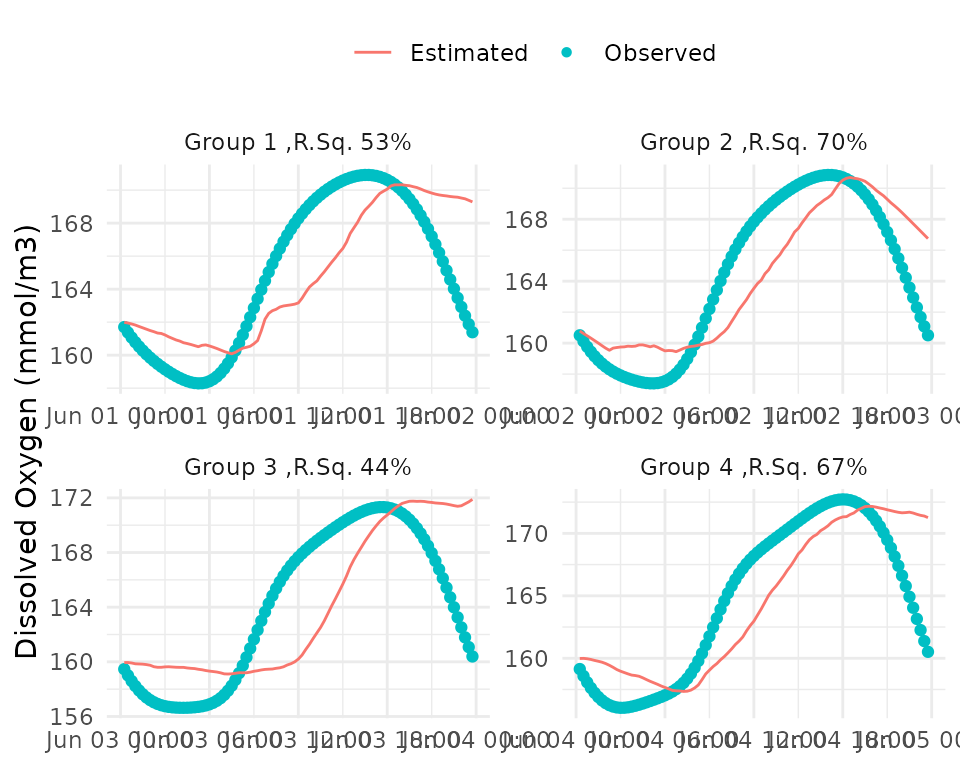
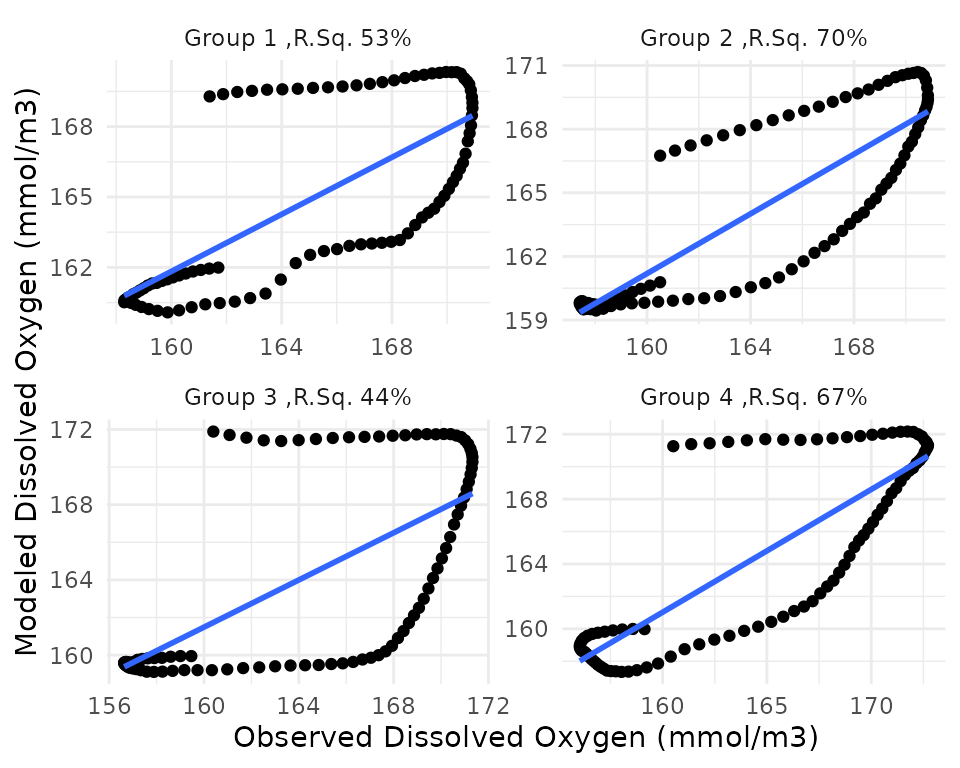
Built site for EBASE: 0.0.0.9003@4bd171c

diff --git a/articles/ebase-overview.html b/articles/ebase-overview.html
@@ -146,7 +146,7 @@
 <span class="co">#&gt; 6 0.5311373 0.007641504 0.2249083      0 13.6254 5.302609</span>
 <span class="co">#&gt; 7 0.5311373 0.007641504 0.2249083      0 13.6254 5.817955</span></code></pre></div>
 <p>The results are returned as a data frame with instantaneous metabolic estimates for volumetric gross production (O2 mmol/m3/d, <code>Pg_vol</code> or <span class="math inline">\(aPAR\)</span> from above), respiration (O2 mmol/m3/d, <code>Rt_vol</code> or <span class="math inline">\(r\)</span> from above), and gas exchange (O2 mmol/m3/d, <code>D</code> or the remainder of the equation from above). Additional parameters estimated by the model that are returned include <code>a</code> and <code>b</code> as shown in the above equation. The <code>a</code> parameter is a constant that represents the primary production per quantum of light with units of (mmol/m3/d)(W/m2) and is used to estimate gross production <span class="citation">(Grace et al. 2015)</span>. The <code>b</code> parameter is a constant used to estimate gas exchange in (cm/hr)/(m2/s2) (provided as 0.251 in eqn. 4 in <span class="citation">Wanninkhof (2014)</span>).</p>
-<p>Model fit can be assessed using the <code>converge</code> and <code>rsq</code> columns. The values in these columns apply to each group in the <code>grp</code> column as specified with the <code>ndays</code> argument. The <code>converge</code> column indicates <code>"Check convergence"</code> or <code>"Fine"</code> if the JAGS estimate converged at that iteration (repeated across rows for the group). The <code>n.chains</code> argument can be increased if convergence is not achieved. Similarly, the <code>rsq</code> column shows the r-squared values of the linear fit between the modeled and observed dissolved oxygen (repeated across rows for the group). These values can also be viewed with <code><a href="../reference/fit_plot.html">fit_plot()</a></code>, shown below. A plot of the results can be made with <code><a href="../reference/ebase_plot.html">ebase_plot()</a></code>.</p>
+<p>A plot of the results can be made with <code><a href="../reference/ebase_plot.html">ebase_plot()</a></code>.</p>
 <div class="sourceCode" id="cb6"><pre class="downlit sourceCode r">
 <code class="sourceCode R"><span class="fu"><a href="../reference/ebase_plot.html">ebase_plot</a></span><span class="op">(</span><span class="va">res</span><span class="op">)</span></code></pre></div>
 <p><img src="ebase-overview_files/figure-html/unnamed-chunk-5-1.png" width="864" style="display: block; margin: auto;"></p>
@@ -164,17 +164,18 @@
 <span class="va">res</span> <span class="op">&lt;-</span> <span class="fu"><a href="../reference/ebase.html">ebase</a></span><span class="op">(</span><span class="va">dat</span>, interval <span class="op">=</span> <span class="fl">900</span>, H <span class="op">=</span> <span class="fl">1.85</span>, progress <span class="op">=</span> <span class="cn">TRUE</span>, n.chains <span class="op">=</span> <span class="fl">2</span><span class="op">)</span>
 
 <span class="fu"><a href="https://rdrr.io/r/parallel/makeCluster.html" class="external-link">stopCluster</a></span><span class="op">(</span><span class="va">cl</span><span class="op">)</span></code></pre></div>
-<p>The model fit can be assessed by comparing the observed and modeled values for dissolved oxygen with the <code><a href="../reference/fit_plot.html">fit_plot()</a></code> function. Estimated values are shown as line and observed values are shown as points.</p>
+<p>Model fit can be assessed using the <code>converge</code> and <code>rsq</code> columns from the returned results. The values in these columns apply to each group in the <code>grp</code> column as specified with the <code>ndays</code> argument. The <code>converge</code> column indicates <code>"Check convergence"</code> or <code>"Fine"</code> if the JAGS estimate converged at that iteration (repeated across rows for the group). The <code>n.chains</code> argument can be increased if convergence is not achieved. Similarly, the <code>rsq</code> column shows the r-squared values of the linear fit between the modeled and observed dissolved oxygen (repeated across rows for the group).</p>
+<p>The model fit can also be assessed by comparing the observed and modeled values for dissolved oxygen with the <code><a href="../reference/fit_plot.html">fit_plot()</a></code> function. Estimated values are shown as line and observed values are shown as points.</p>
 <div class="sourceCode" id="cb9"><pre class="downlit sourceCode r">
 <code class="sourceCode R"><span class="fu"><a href="../reference/fit_plot.html">fit_plot</a></span><span class="op">(</span><span class="va">res</span><span class="op">)</span></code></pre></div>
 <p><img src="ebase-overview_files/figure-html/unnamed-chunk-8-1.png" width="864" style="display: block; margin: auto;"></p>
-<p>A scatterplot showing modeled versus observed dissolved oxygen can also be returned by setting <code>scatter = TRUE</code>.</p>
-<div class="sourceCode" id="cb10"><pre class="downlit sourceCode r">
-<code class="sourceCode R"><span class="fu"><a href="../reference/fit_plot.html">fit_plot</a></span><span class="op">(</span><span class="va">res</span>, scatter <span class="op">=</span> <span class="cn">TRUE</span><span class="op">)</span></code></pre></div>
-<p><img src="ebase-overview_files/figure-html/unnamed-chunk-9-1.png" width="384" style="display: block; margin: auto;"></p>
 <p>The comparison can also be separated by group with <code>bygroup = TRUE</code> based on the value for the <code>ndays</code> argument passed to <code><a href="../reference/ebase.html">ebase()</a></code>. The r-squared value of the fit between modeled and observed dissolved oxygen is also shown in the facet label for the group.</p>
-<div class="sourceCode" id="cb11"><pre class="downlit sourceCode r">
+<div class="sourceCode" id="cb10"><pre class="downlit sourceCode r">
 <code class="sourceCode R"><span class="fu"><a href="../reference/fit_plot.html">fit_plot</a></span><span class="op">(</span><span class="va">res</span>, bygroup <span class="op">=</span> <span class="cn">TRUE</span><span class="op">)</span></code></pre></div>
+<p><img src="ebase-overview_files/figure-html/unnamed-chunk-9-1.png" width="480" style="display: block; margin: auto;"></p>
+<p>A scatterplot showing modeled versus observed dissolved oxygen can also be returned by setting <code>scatter = TRUE</code>.</p>
+<div class="sourceCode" id="cb11"><pre class="downlit sourceCode r">
+<code class="sourceCode R"><span class="fu"><a href="../reference/fit_plot.html">fit_plot</a></span><span class="op">(</span><span class="va">res</span>, bygroup <span class="op">=</span> <span class="cn">TRUE</span>, scatter <span class="op">=</span> <span class="cn">TRUE</span><span class="op">)</span></code></pre></div>
 <p><img src="ebase-overview_files/figure-html/unnamed-chunk-10-1.png" width="480" style="display: block; margin: auto;"></p>
 </div>
 <div class="section level3">
@@ -196,13 +197,17 @@
 <div class="sourceCode" id="cb13"><pre class="downlit sourceCode r">
 <code class="sourceCode R"><span class="fu"><a href="../reference/ebase_plot.html">ebase_plot</a></span><span class="op">(</span><span class="va">res</span>, instantaneous <span class="op">=</span> <span class="cn">TRUE</span><span class="op">)</span></code></pre></div>
 <p><img src="ebase-overview_files/figure-html/unnamed-chunk-12-1.png" width="864" style="display: block; margin: auto;"></p>
+<p>And the fit of observed and modeled dissolved oxygen (note the unbroken line for all days estimated together):</p>
+<div class="sourceCode" id="cb14"><pre class="downlit sourceCode r">
+<code class="sourceCode R"><span class="fu"><a href="../reference/fit_plot.html">fit_plot</a></span><span class="op">(</span><span class="va">res</span><span class="op">)</span></code></pre></div>
+<p><img src="ebase-overview_files/figure-html/unnamed-chunk-13-1.png" width="864" style="display: block; margin: auto;"></p>
 </div>
 <div class="section level4">
 <h4 id="missing-values">Missing values<a class="anchor" aria-label="anchor" href="#missing-values"></a>
 </h4>
 <p>Missing values in the input data can also be interpolated prior to estimating metabolism. This is the default behavior and it is the responsibility of the user to verify that these interpolated values are not wildly inaccurate. Missing values are linearly interpolated between non-missing values at the time step specified by the value in <code>interval</code>. This works well for small gaps, but can easily create inaccurate values at gaps larger than a few hours.</p>
 <p>As an example, the <code>dat</code> object above is subset to 90% of its observations.</p>
-<div class="sourceCode" id="cb14"><pre class="downlit sourceCode r">
+<div class="sourceCode" id="cb15"><pre class="downlit sourceCode r">
 <code class="sourceCode R"><span class="fu"><a href="https://rdrr.io/r/base/Random.html" class="external-link">set.seed</a></span><span class="op">(</span><span class="fl">222</span><span class="op">)</span>
 <span class="va">dat2</span> <span class="op">&lt;-</span> <span class="va">dat</span> <span class="op"><a href="https://magrittr.tidyverse.org/reference/pipe.html" class="external-link">%&gt;%</a></span> 
   <span class="fu"><a href="https://dplyr.tidyverse.org/reference/slice.html" class="external-link">slice_sample</a></span><span class="op">(</span>prop <span class="op">=</span> <span class="fl">0.9</span><span class="op">)</span> <span class="op"><a href="https://magrittr.tidyverse.org/reference/pipe.html" class="external-link">%&gt;%</a></span> 
@@ -216,7 +221,7 @@
 <span class="co">#&gt; 5 2012-06-01 01:45:00 5.121741 29.6 24.6   0  1.8</span>
 <span class="co">#&gt; 6 2012-06-01 02:00:00 5.115085 29.6 24.8   0  2.0</span></code></pre></div>
 <p>The <code><a href="../reference/ebase_prep.html">ebase_prep()</a></code> function is used internally to <code>ebase</code> to prepare the data for the metabolism calculations. This function interpolates the missing data and returns a column <code>isinterp</code> that specifies <code>TRUE</code> or <code>FALSE</code> if a value is interpolated.</p>
-<div class="sourceCode" id="cb15"><pre class="downlit sourceCode r">
+<div class="sourceCode" id="cb16"><pre class="downlit sourceCode r">
 <code class="sourceCode R"><span class="va">dat2interp</span> <span class="op">&lt;-</span> <span class="fu"><a href="../reference/ebase_prep.html">ebase_prep</a></span><span class="op">(</span><span class="va">dat2</span>, H <span class="op">=</span> <span class="fl">1.85</span>, interval <span class="op">=</span> <span class="fl">900</span>, interp <span class="op">=</span> <span class="cn">T</span><span class="op">)</span>
 <span class="fu"><a href="https://rdrr.io/r/utils/head.html" class="external-link">head</a></span><span class="op">(</span><span class="va">dat2interp</span><span class="op">)</span>
 <span class="co">#&gt;         Date       DateTimeStamp isinterp   DO_obs   DO_sat    H  Temp   Sal</span>
@@ -234,16 +239,16 @@
 <span class="co">#&gt; 5   0 1.70 345.0879   1</span>
 <span class="co">#&gt; 6   0 1.75 345.2247   1</span></code></pre></div>
 <p>The interpolated values can be visually inspected using the <code><a href="../reference/interp_plot.html">interp_plot()</a></code> function.</p>
-<div class="sourceCode" id="cb16"><pre class="downlit sourceCode r">
+<div class="sourceCode" id="cb17"><pre class="downlit sourceCode r">
 <code class="sourceCode R"><span class="fu"><a href="../reference/interp_plot.html">interp_plot</a></span><span class="op">(</span><span class="va">dat2</span>, H <span class="op">=</span> <span class="fl">1.85</span>, interval <span class="op">=</span> <span class="fl">900</span>, param <span class="op">=</span> <span class="st">'DO_sat'</span><span class="op">)</span></code></pre></div>
-<p><img src="ebase-overview_files/figure-html/unnamed-chunk-15-1.png" width="864" style="display: block; margin: auto;"></p>
+<p><img src="ebase-overview_files/figure-html/unnamed-chunk-16-1.png" width="864" style="display: block; margin: auto;"></p>
 </div>
 <div class="section level4">
 <h4 id="changing-priors">Changing priors<a class="anchor" aria-label="anchor" href="#changing-priors"></a>
 </h4>
 <p>The prior distributions for the <span class="math inline">\(a\)</span>, <span class="math inline">\(r\)</span>, and <span class="math inline">\(b\)</span> parameters are defined in the <code><a href="../reference/ebase_model.html">ebase_model()</a></code> as uninformed uniform, normal, and uniform distributions, respectively. The prior distribution for <span class="math inline">\(a\)</span> as default varies uniformly across the range from zero to 200% of an estimated mean of 0.2 (mmol/m3/d)(W/m2). This range can be changed using the <code>arng</code> parameter, default being 0 to 2 for zero to 200%. The prior distribution for the <span class="math inline">\(r\)</span> parameter follows a normal distribution with mean zero and variance equal to 100. This variance estimate can be changed with the <code>rvar</code> parameter. The prior distribution for <span class="math inline">\(b\)</span> as default varies uniformly across the range from 80 to 120% of an estimated mean of 0.251 (cm/hr)/(m2/s2). This range can be changed using the <code>brng</code> parameter, default being 0.8 to 1.2 for 80 to 120%. Note that @ states that the uncertainty of the <span class="math inline">\(b\)</span> parameter typically does not vary more than 20%, although this range is generally unknown in estuarine systems.</p>
 <p>Here, the prior range for the <span class="math inline">\(b\)</span> parameter is expanded to 70% and 130%.</p>
-<div class="sourceCode" id="cb17"><pre class="downlit sourceCode r">
+<div class="sourceCode" id="cb18"><pre class="downlit sourceCode r">
 <code class="sourceCode R"><span class="va">cl</span> <span class="op">&lt;-</span> <span class="fu"><a href="https://rdrr.io/r/parallel/makeCluster.html" class="external-link">makeCluster</a></span><span class="op">(</span><span class="fl">2</span><span class="op">)</span>
 <span class="fu"><a href="https://rdrr.io/pkg/doParallel/man/registerDoParallel.html" class="external-link">registerDoParallel</a></span><span class="op">(</span><span class="va">cl</span><span class="op">)</span>
 
@@ -252,7 +257,7 @@
 <span class="fu"><a href="https://rdrr.io/r/parallel/makeCluster.html" class="external-link">stopCluster</a></span><span class="op">(</span><span class="va">cl</span><span class="op">)</span>
 
 <span class="fu"><a href="../reference/ebase_plot.html">ebase_plot</a></span><span class="op">(</span><span class="va">res</span>, instantaneous <span class="op">=</span> <span class="cn">TRUE</span><span class="op">)</span></code></pre></div>
-<p><img src="ebase-overview_files/figure-html/unnamed-chunk-16-1.png" width="864" style="display: block; margin: auto;"></p>
+<p><img src="ebase-overview_files/figure-html/unnamed-chunk-17-1.png" width="864" style="display: block; margin: auto;"></p>
 </div>
 </div>
 <div class="section level2">
